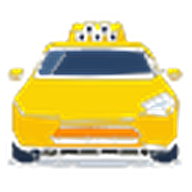
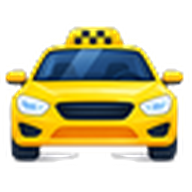
Las cuatro puertas y el taxi del selector, en ilustración
El taxi vectorizado se veía mal y lo reemplaza la ilustración limpia; las otras
tres puertas del home pasan también a ilustración, porque montar una sola dejó
un dibujo a color al lado de tres glifos monocromos y eso canta. O todas, o
ninguna: queda escrito en el widget.

`_abrir` en la herramienta acepta ahora PNG o WEBP además de SVG, y el mapa de
bits MANDA sobre el vector cuando existe: sustituir un dibujo es dejar el
archivo nuevo en `disenio/`, sin tocar el script. `quitar_fondo` sirve a los
dos casos —el repartidor vino sobre negro y estos sobre blanco— y mira una
esquina en vez de fiarse del formato.

El recorte sigue siendo por relleno desde los bordes, no por umbral de color, y
aquí importaba más que antes: el taxi tiene los FAROS blancos sobre fondo
blanco, y un umbral se los habría comido dejando dos agujeros en el frente. Al
alcanzarse solo lo conectado al borde, sobreviven.

Retirado `disenio/categorias/taxi.svg`: con el PNG puesto era una segunda
fuente del mismo icono que ya no genera nada.

Verificado sin Flutter: previsualización de las cuatro puertas a 48 px sobre el
tinte oscuro de cada una y del selector a 46 px —el bodegón de comida se temía
ilegible a ese tamaño y se lee, la hamburguesa manda—, las tres reglas de
`zipa_icon_test` a mano y balance de llaves.

OJO, lo que ahora desentona: en el selector el taxi es una ilustración limpia
al lado de un particular y una moto que siguen siendo los vectorizados, con el
[…]

diff --git a/AppCliente/lib/features/businesses/presentation/widgets/tarjeta_servicio.dart b/AppCliente/lib/features/businesses/presentation/widgets/tarjeta_servicio.dart
@@ -13,10 +13,13 @@ import 'package:nexum_client/app/theme/zipa_tokens.dart';
 ///
 /// Lo que sí cambió: eran cuatro cajas blancas idénticas con un borde de un
 /// pelo, y de lejos la home se leía como un formulario. Ahora cada puerta
-/// tiene cuerpo —un velo de su propio tinte, la marca de agua de su glifo
-/// asomando por la esquina y el cuadro del icono con volumen— sin salirse de
-/// la paleta y sin un solo archivo de imagen. Todo es pintado: no hay
-/// ilustración que licenciar ni peso que descargar.
+/// tiene cuerpo —un velo de su propio tinte y el cuadro del icono con
+/// volumen— sin salirse de la paleta.
+///
+/// Dentro del cuadro va una ILUSTRACIÓN a color, no el glifo pintado. Se
+/// empezó con todo dibujado a mano para no depender de archivos, y el glifo
+/// sigue ahí como respaldo, pero en pantalla un taxi ilustrado se reconoce
+/// antes que una silueta de un solo tono y comunica a qué huele cada puerta.
 ///
 /// El subtítulo va acotado a tres palabras a propósito. En una rejilla de dos
 /// columnas, una frase más larga parte en tres líneas y descuadra la fila
@@ -40,9 +43,9 @@ class TarjetaServicio extends StatefulWidget {
   /// falta o no carga, la puerta se dibuja igual en vez de dejar un cuadro
   /// vacío en la primera pantalla de la app.
   ///
-  /// OJO con mezclar: un dibujo a color al lado de tres glifos monocromos se
-  /// nota. Mientras no las tengan todas, la que lo lleve debe ganarse la
-  /// diferencia.
+  /// Hoy las cuatro puertas la llevan, y así debe seguir: una ilustración a
+  /// color al lado de un glifo monocromo canta, y se vio en cuanto se montó
+  /// solo la de Envíos. O todas, o ninguna.
   final String? ilustracion;
 
   final ZipaTinte tinte;

diff --git a/AppCliente/lib/features/businesses/presentation/screens/businesses_screen.dart b/AppCliente/lib/features/businesses/presentation/screens/businesses_screen.dart
@@ -356,6 +356,7 @@ class _RejillaServicios extends ConsumerWidget {
               Expanded(
                 child: TarjetaServicio(
                   icono: ZipaIconName.movilidad,
+                  ilustracion: 'assets/categorias/taxi.png',
                   tinte: ZipaTokens.movilidad,
                   titulo: 'Movilidad',
                   subtitulo: 'Taxi, moto, carro',
@@ -367,6 +368,7 @@ class _RejillaServicios extends ConsumerWidget {
               Expanded(
                 child: TarjetaServicio(
                   icono: ZipaIconName.restaurantes,
+                  ilustracion: 'assets/servicios/restaurantes.png',
                   tinte: ZipaTokens.restaurantes,
                   titulo: 'Restaurantes',
                   subtitulo: 'Comida a domicilio',
@@ -395,6 +397,7 @@ class _RejillaServicios extends ConsumerWidget {
               Expanded(
                 child: TarjetaServicio(
                   icono: ZipaIconName.intermunicipal,
+                  ilustracion: 'assets/categorias/bus.png',
                   tinte: ZipaTokens.intermunicipal,
                   titulo: 'Intermunicipal',
                   subtitulo: 'Viajes entre ciudades',

diff --git a/tools/procesar-categorias.py b/tools/procesar-categorias.py
@@ -122,10 +122,13 @@ def rasterizar(ruta: Path, alto_px: int) -> Image.Image:
 
 # ─── Recorte del fondo del repartidor ────────────────────────────────────────
 
-def quitar_fondo_oscuro(img: Image.Image, tolerancia: int = 40) -> Image.Image:
-    """Borra la región oscura CONECTADA a los bordes. Ver punto 5.
+def quitar_fondo(img: Image.Image, claro: bool, tolerancia: int = 24) -> Image.Image:
+    """Borra la región de fondo CONECTADA a los bordes. Ver punto 5.
 
-    No toca el negro interior del dibujo porque no se alcanza desde fuera.
+    `claro=True` para los originales sobre blanco, `False` para los que vienen
+    sobre negro. En los dos casos el color interior del dibujo sobrevive porque
+    no se alcanza desde fuera: los faros blancos del taxi están rodeados de
+    amarillo, y el pantalón negro del repartidor, de amarillo también.
     """
     img = img.convert('RGBA')
     ancho, alto = img.size
@@ -133,6 +136,8 @@ def quitar_fondo_oscuro(img: Image.Image, tolerancia: int = 40) -> Image.Image:
 
     def es_fondo(x: int, y: int) -> bool:
         r, g, b, _ = px[x, y]
+        if claro:
+            return r >= 255 - tolerancia and g >= 255 - tolerancia and b >= 255 - tolerancia
         return r <= tolerancia and g <= tolerancia and b <= tolerancia
 
     visto = bytearray(ancho * alto)
@@ -190,21 +195,44 @@ def exportar(img_1x: Image.Image, carpeta: str, nombre: str) -> None:
             img_1x.resize((lado, lado), Image.LANCZOS).save(destino / f'{nombre}.png')
 
 
+def _abrir(carpeta: str, nombre: str) -> Image.Image:
+    """El original de ese icono, venga como venga.
+
+    Conviven las dos fuentes a propósito: los primeros vinieron vectorizados
+    desde un PNG y los que se fueron reemplazando llegan ya como ilustración
+    limpia. Si existe un PNG o un WEBP con ese nombre, manda sobre el SVG —así
+    sustituir un dibujo es dejar el archivo nuevo, sin tocar el script.
+    """
+    base = RAIZ / 'disenio' / carpeta
+    for ext, claro in (('png', True), ('webp', None), ('jpg', True)):
+        p = base / f'{nombre}.{ext}'
+        if not p.exists():
+            continue
+        img = Image.open(p)
+        # El webp del repartidor vino sobre negro; los PNG, sobre blanco. Se
+        # mira una esquina en vez de fiarse del formato.
+        esquina = img.convert('RGB').getpixel((0, 0))
+        sobre_claro = claro if claro is not None else sum(esquina) > 382
+        return quitar_fondo(img, claro=sobre_claro)
+
+    svg = base / f'{nombre}.svg'
+    # Se rasteriza grande y se normaliza después: así el recorte al contenido
+    # trabaja con detalle y no con un dibujo ya pixelado.
+    return rasterizar(svg, alto_px=LADO * 6)
+
+
 def main() -> None:
     print('Categorías (vista frontal, para el selector)')
     for nombre, peso in PESO.items():
-        origen = RAIZ / 'disenio' / 'categorias' / f'{nombre}.svg'
-        # Se rasteriza grande y se normaliza después: así el recorte al
-        # contenido trabaja con detalle y no con un dibujo ya pixelado.
-        grande = rasterizar(origen, alto_px=LADO * 6)
-        exportar(a_cuadrado(grande, LADO, peso), 'categorias', nombre)
+        exportar(a_cuadrado(_abrir('categorias', nombre), LADO, peso),
+                 'categorias', nombre)
         print(f'  ✓ {nombre:11s} peso {peso}')
 
-    print('Servicios')
-    repartidor = quitar_fondo_oscuro(
-        Image.open(RAIZ / 'disenio' / 'servicios' / 'repartidor.webp'))
-    exportar(a_cuadrado(repartidor, LADO, 1.0), 'servicios', 'repartidor')
-    print('  ✓ repartidor')
+    print('Servicios (puertas del home)')
+    for nombre in ('repartidor', 'restaurantes'):
+        exportar(a_cuadrado(_abrir('servicios', nombre), LADO, 1.0),
+                 'servicios', nombre)
+        print(f'  ✓ {nombre}')
 
 
 if __name__ == '__main__':
